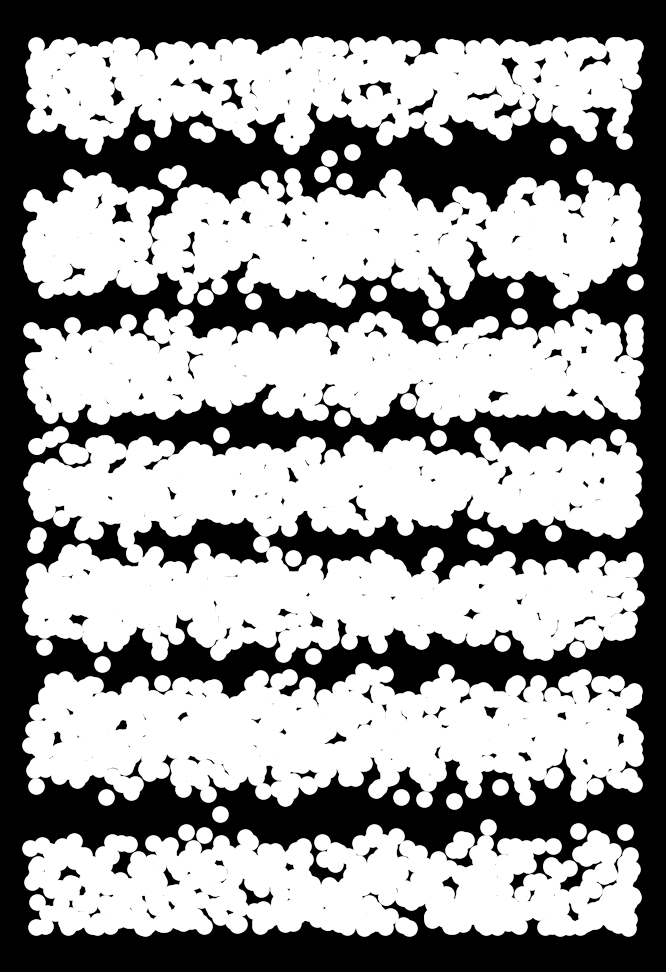
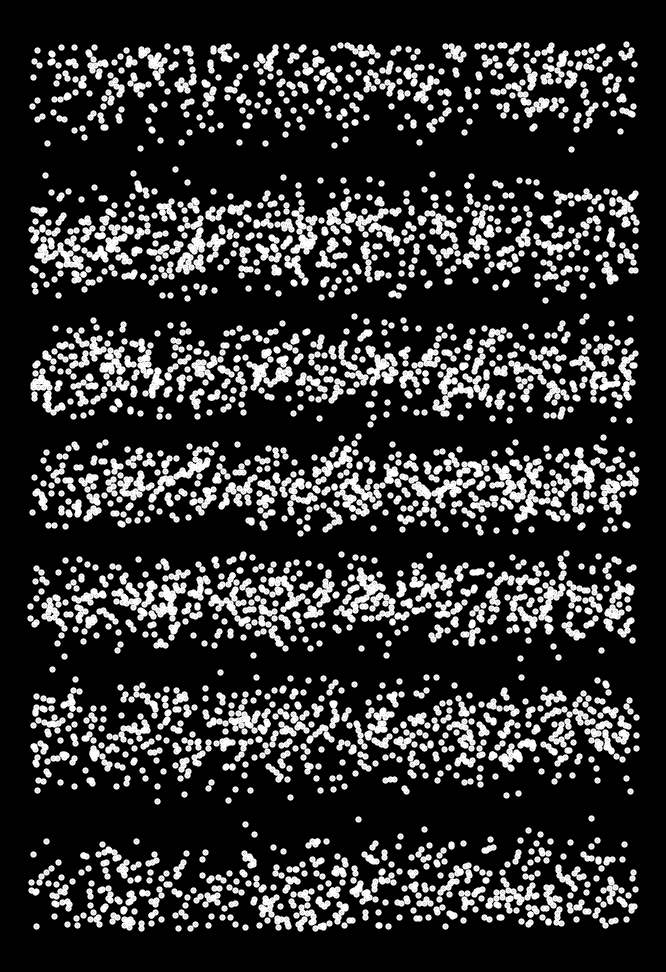
forandret markersize

diff --git a/viPrøverIgjen/flereVariablerAvGangen/cubicBezier.py b/viPrøverIgjen/flereVariablerAvGangen/cubicBezier.py
@@ -1,0 +1,103 @@
+import numpy as np
+import matplotlib.pyplot as plt
+
+
+def cubicBezier(t, p0, p1, p2, p3):
+    return (1-t)**3 * p0 + 3*(1-t)**2*t * p1 + 3*(1-t)*t**2 * p2 + t**3 * p3
+
+def plotCubicBezier(p0, p1, p2, p3, numPoints=100):
+    t_values = np.linspace(0, 1, numPoints)
+    x_values = []
+    y_values = []
+    for t in t_values:
+        x, y = cubicBezier(t, p0, p1, p2, p3)
+        x_values.append(x)
+        y_values.append(y)
+    plt.plot(x_values, y_values, "o", zorder=1)
+    plt.scatter([p0[0], p1[0], p2[0], p3[0]], [p0[1], p1[1], p2[1], p3[1]], color='red', zorder=2)
+    plt.xlabel('X')
+    plt.ylabel('Y')
+    plt.title('Cubic Bezier Curve')
+    plt.grid(True, zorder=0)
+    plt.show()
+
+def cubicBezierYatT(p0,p1,p2,p3,t):
+    y0 = p0[1]
+    y1 = p1[1]
+    y2 = p2[1]
+    y3 = p3[1]
+
+    y = y0*(1-t)**3 + 3*y1*t*(1-t)**2 + (3*y2*t**2)*(1-t) + y3*t**3
+
+    return y
+
+def cubicBezierXatT(p0,p1,p2,p3,t):
+    x0 = p0[0]
+    x1 = p1[0]
+    x2 = p2[0]
+    x3 = p3[0]
+
+    x = x0*(1-t)**3 + 3*x1*t*(1-t)**2 + (3*x2*t**2)*(1-t) + x3*t**3
+
+    return x
+
+# Control points
+p0 = np.array([0, 0])
+p1 = np.array([3, 0])
+p2 = np.array([6, 10])
+p3 = np.array([10, 10])
+
+xScaling = 1
+yScaling = 6
+
+p0[0] = p0[0] * xScaling
+p1[0] = p1[0] * xScaling
+p2[0] = p2[0] * xScaling
+p3[0] = p3[0] * xScaling
+
+p0[1] = p0[1] * yScaling
+p1[1] = p1[1] * yScaling
+p2[1] = p2[1] * yScaling
+p3[1] = p3[1] * yScaling
+
+# number of points to plot
+# When this is to be implemented in the double slit script, one point equals one png.
+# I have chosen a number divisible by 24, the standard framerate of film.
+# If the mp4 file is neither slowed down nor sped up, 96 frames will equal 4 seconds of film.
+numPoints = 96
+
+# Markersize størrelse på prikker
+
+
+def printTValues(numPoints):
+    i=1
+    numParticles = 0
+    tValues = np.linspace(0,1,numPoints)
+    for tValue in tValues:
+        x = cubicBezierXatT(p0,p1,p2,p3,tValue)
+        # print("x value at t = " + str("%.2f" % tValue) + " = " + str("%.2f" % x) + ", point number: " + str(i))
+        y = cubicBezierYatT(p0,p1,p2,p3,tValue)
+        print("y value at t = " + str("%.2f" % tValue) + " = " + str("%.0f" % y) + ", point number: " + str(i))
+        i+= 1
+        numParticles += int(y)
+    print("Total number of particles = " + str(numParticles))
+
+
+def yValues(numPoints):
+    i=1
+    yArray = []
+    numParticles = 0
+    tValues = np.linspace(0,1,numPoints)
+    for tValue in tValues:
+        y = cubicBezierYatT(p0,p1,p2,p3,tValue)
+        i+= 1
+        numParticles += int(y)
+        yArray.append(int(y))
+    print("Total number of particles = " + str(numParticles))
+    return yArray
+
+# printTValues(numPoints)
+# print(yValues(numPoints))
+plotCubicBezier(p0,p1,p2,p3,numPoints)
+
+

diff --git a/viPrøverIgjen/flereVariablerAvGangen/flereVariablerAvGangen.py b/viPrøverIgjen/flereVariablerAvGangen/flereVariablerAvGangen.py
@@ -271,7 +271,7 @@ for waveLength in lambdaArray:
         plt.style.use('dark_background')
         # plt.grid(visible = False)
         # x skal her være et tilfeldig tall
-        plt.plot(np.random.rand(5000), Konvertere(num), 'w.')
+        plt.plot(np.random.rand(5000), Konvertere(num), 'w.', markersize=1)
         # plt.show()
         strFile = setStringFile(4)
         if os.path.isfile(strFile):
